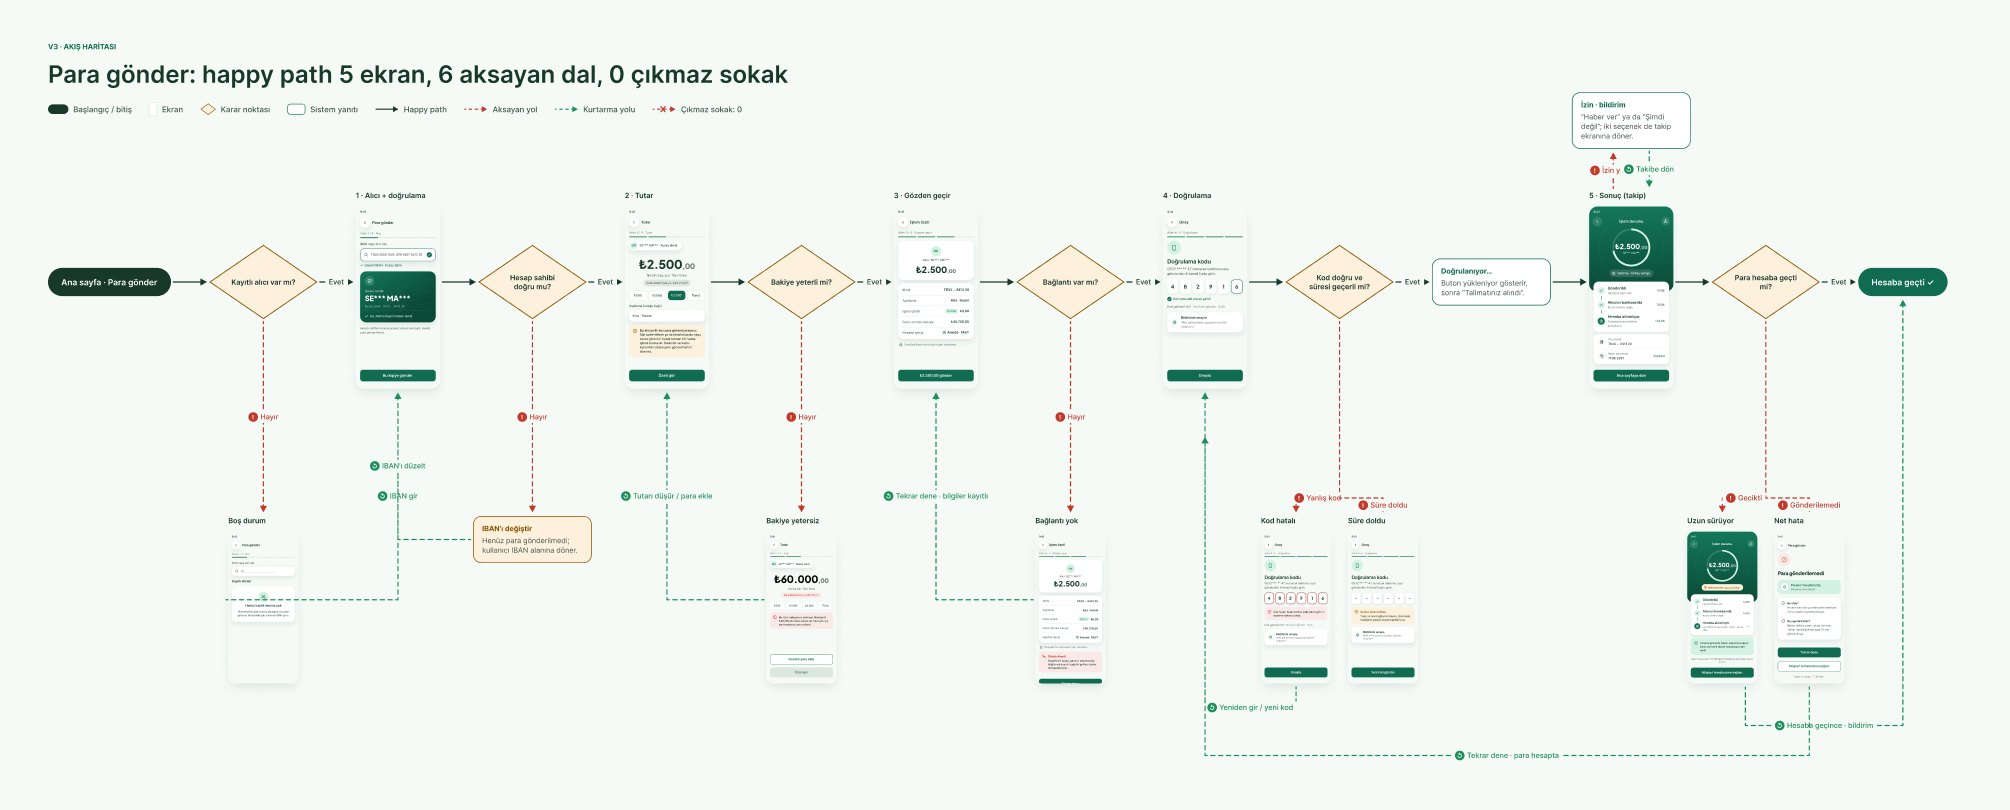
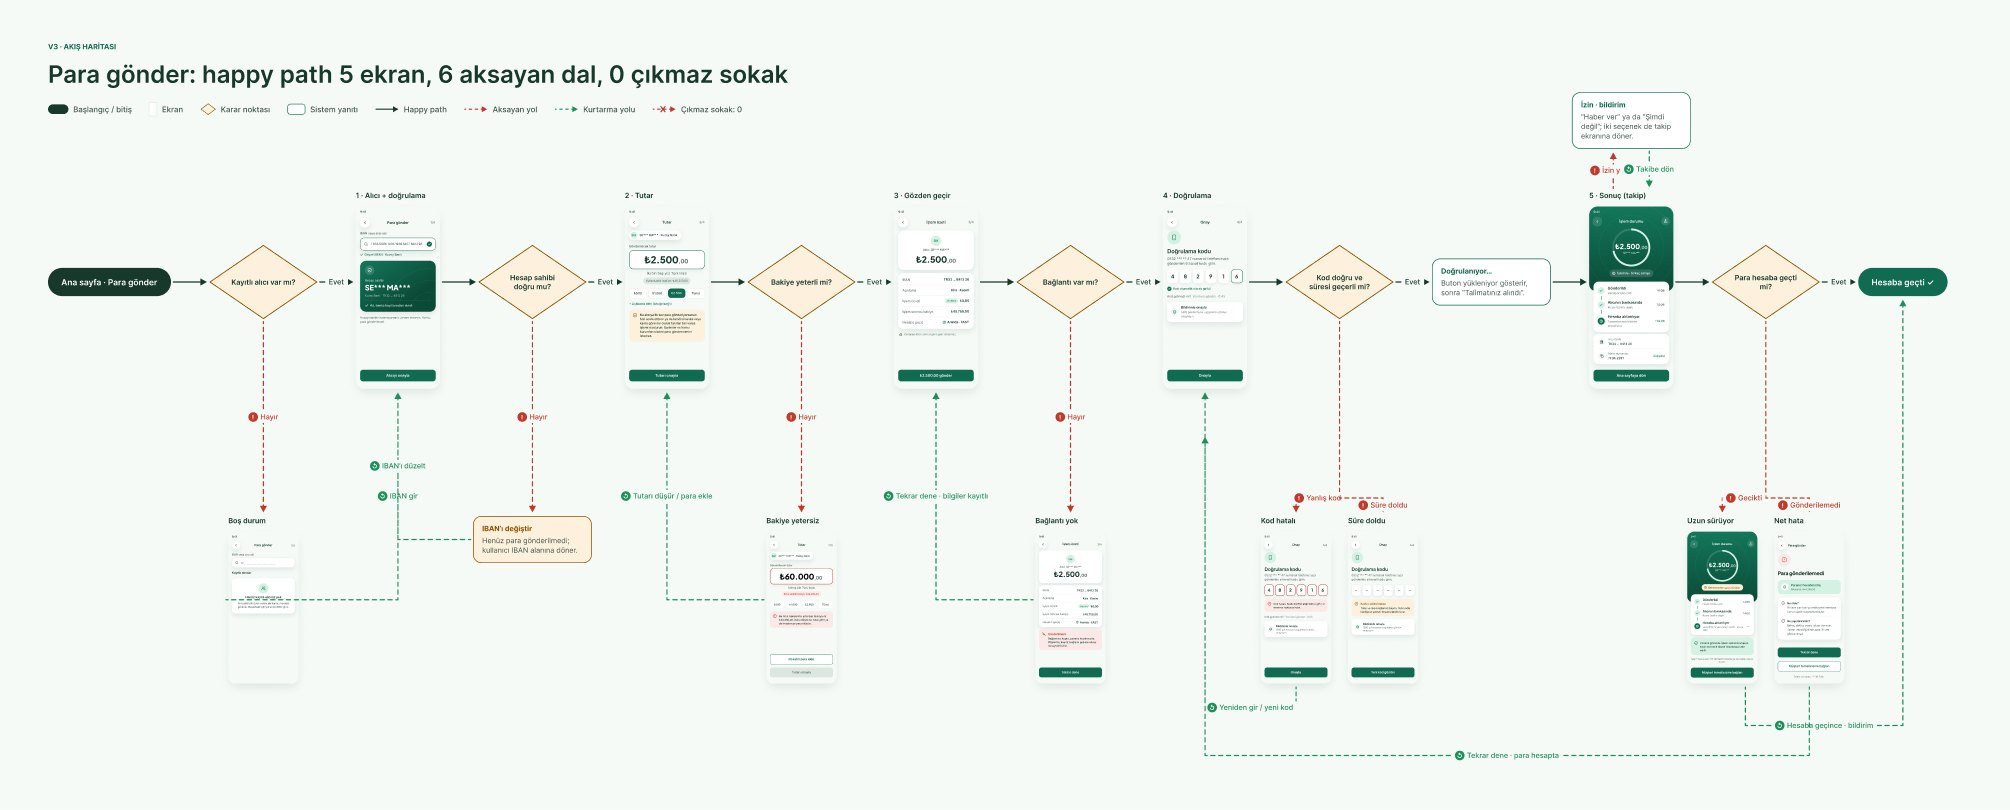
Odakbank v3: header step counter, clearer step buttons, explicit amount field
Claude-Session: https://claude.ai/code/session_01SkajtJQdqzcj5TnmeeF6aY

diff --git a/work/odakbank.html b/work/odakbank.html
@@ -79,14 +79,14 @@
 
 <section class="sec"><div class="wrap">
   <div class="sec-head rv"><h2>How it evolved</h2></div>
-  <div class="prows"><article class="rv"><div class="media"><img src="../assets/img/odakbank/wireframes.jpg" alt="Structure before style" loading="lazy"></div><div class="copy"><span class="pain">Step 1 · Wireframes</span><h3>Structure before style</h3><p>Seven greyscale screens, each linked to a step in the flow and the complaint theme it addresses, so every element had to justify its place.</p></div></article><article class="rv"><div class="media"><img src="../assets/img/odakbank/compare.jpg" alt="From correct to convincing" loading="lazy"></div><div class="copy"><span class="pain">Step 2 · v1 → v2</span><h3>From correct to convincing</h3><p>v1 had the right flow but looked generic: text characters as icons, a single card style and no brand moment. v2 introduces a consistent icon set, a display typeface for amounts and more depth, and makes the status tracker the hero screen.</p></div></article><article class="rv"><div class="media"><img src="../assets/img/odakbank/states-v3.jpg" alt="From screens to a flow" loading="lazy"></div><div class="copy"><span class="pain">Step 3 · v2 → v3</span><h3>From screens to a flow</h3><p>A course review of the flow showed that v2 only covered the ideal path. v3 adds a step indicator, a loading state after “Onayla” (Confirm) and the states around it: no saved recipients, insufficient balance, lost connection, wrong code and expired code.</p></div></article><article class="rv"><div class="media"><img src="../assets/img/odakbank/foundations.jpg" alt="Built on tokens, not one-offs" loading="lazy"></div><div class="copy"><span class="pain">Step 4 · Design system</span><h3>Built on tokens, not one-offs</h3><p>13 colour variables, 6 text styles and 5 component sets. Because the brand colour is green, success is never communicated by colour alone: every status pairs an icon with text.</p></div></article></div>
+  <div class="prows"><article class="rv"><div class="media"><img src="../assets/img/odakbank/wireframes.jpg" alt="Structure before style" loading="lazy"></div><div class="copy"><span class="pain">Step 1 · Wireframes</span><h3>Structure before style</h3><p>Seven greyscale screens, each linked to a step in the flow and the complaint theme it addresses, so every element had to justify its place.</p></div></article><article class="rv"><div class="media"><img src="../assets/img/odakbank/compare.jpg" alt="From correct to convincing" loading="lazy"></div><div class="copy"><span class="pain">Step 2 · v1 → v2</span><h3>From correct to convincing</h3><p>v1 had the right flow but looked generic: text characters as icons, a single card style and no brand moment. v2 introduces a consistent icon set, a display typeface for amounts and more depth, and makes the status tracker the hero screen.</p></div></article><article class="rv"><div class="media"><img src="../assets/img/odakbank/states-v3.jpg" alt="From screens to a flow" loading="lazy"></div><div class="copy"><span class="pain">Step 3 · v2 → v3</span><h3>From screens to a flow</h3><p>A course review of the flow showed that v2 only covered the ideal path. v3 adds a step counter, an explicit amount field, a loading state after “Onayla” (Confirm) and the states around it: no saved recipients, insufficient balance, lost connection, wrong code and expired code.</p></div></article><article class="rv"><div class="media"><img src="../assets/img/odakbank/foundations.jpg" alt="Built on tokens, not one-offs" loading="lazy"></div><div class="copy"><span class="pain">Step 4 · Design system</span><h3>Built on tokens, not one-offs</h3><p>13 colour variables, 6 text styles and 5 component sets. Because the brand colour is green, success is never communicated by colour alone: every status pairs an icon with text.</p></div></article></div>
 </div></section>
 
 
 <section class="sec" id="flow-audit"><div class="wrap">
   <div class="sec-head rv"><h2>Flow audit</h2><p>After a course session on flows (Brick Institute, “Ekrandan Akışa”), I reviewed v2 as a flow rather than as screens, using a 10-point checklist.</p></div>
   <div class="scorebar rv"><div><b class="tabular">3/10</b><span>v2, by my own review</span></div><span class="to" aria-hidden="true">→</span><div><b class="tabular">10/10</b><span>v3, on the same checklist</span></div><p>A self-assessment, not a usability result. The aim was to find what the screens hid: what happens before, after and when something goes wrong.</p></div>
-  <ol class="audit rv"><li><span class="grp">Navigation</span><div class="q">Does the user know where they are on every screen?</div><div class="was"><span class="x" aria-hidden="true">✕</span>No step indicator</div><div class="now"><span class="ok" aria-hidden="true">✓</span>“Adım 2 / 4” (Step 2 of 4) on every screen</div></li><li><span class="grp">Navigation</span><div class="q">Can they go back without losing what they entered?</div><div class="was"><span class="ok" aria-hidden="true">✓</span>Back on every screen, but an expired code had no defined path</div><div class="now"><span class="ok" aria-hidden="true">✓</span>Same, and “Kodun süresi doldu” (Code expired) now keeps the amount and recipient</div></li><li><span class="grp">Interaction</span><div class="q">Does every action get feedback?</div><div class="was"><span class="x" aria-hidden="true">✕</span>Nothing shown after “Onayla” (Confirm)</div><div class="now"><span class="ok" aria-hidden="true">✓</span>Loading button, then the status screen</div></li><li><span class="grp">Interaction</span><div class="q">Is there one clear primary action that says what happens?</div><div class="was"><span class="ok" aria-hidden="true">✓</span>One primary button per screen, but mostly “Devam et” (Continue)</div><div class="now"><span class="ok" aria-hidden="true">✓</span>Same, and the label says what happens: “₺2.500,00 gönder” (Send ₺2,500.00)</div></li><li><span class="grp">Interaction</span><div class="q">Are touch targets at least 44pt?</div><div class="was"><span class="x" aria-hidden="true">✕</span>Back buttons were 40pt</div><div class="now"><span class="ok" aria-hidden="true">✓</span>44pt</div></li><li><span class="grp">Resilience</span><div class="q">Do errors say what happened, why and what to do?</div><div class="was"><span class="ok" aria-hidden="true">✓</span>Yes, on the failed-transfer screen</div><div class="now"><span class="ok" aria-hidden="true">✓</span>Every new branch uses the same three-part message</div></li><li><span class="grp">Resilience</span><div class="q">Is there an empty state?</div><div class="was"><span class="x" aria-hidden="true">✕</span>No</div><div class="now"><span class="ok" aria-hidden="true">✓</span>“Henüz kayıtlı alıcınız yok” (No saved recipients yet)</div></li><li><span class="grp">Resilience</span><div class="q">Is there a branch for no connection, permission or timeout?</div><div class="was"><span class="x" aria-hidden="true">✕</span>Only a delayed transfer</div><div class="now"><span class="ok" aria-hidden="true">✓</span>Lost connection, expired code, notification permission</div></li><li><span class="grp">Resilience</span><div class="q">Does every branch lead back into the flow?</div><div class="was"><span class="x" aria-hidden="true">✕</span>Partly</div><div class="now"><span class="ok" aria-hidden="true">✓</span>Yes: no dead ends</div></li><li><span class="grp">Efficiency</span><div class="q">Is every step needed?</div><div class="was"><span class="x" aria-hidden="true">✕</span>6 steps; recipient check was its own screen</div><div class="now"><span class="ok" aria-hidden="true">✓</span>5 steps; the check is part of the recipient step</div></li></ol>
+  <ol class="audit rv"><li><span class="grp">Navigation</span><div class="q">Does the user know where they are on every screen?</div><div class="was"><span class="x" aria-hidden="true">✕</span>No step indicator</div><div class="now"><span class="ok" aria-hidden="true">✓</span>A compact “2/4” counter in the header of every step</div></li><li><span class="grp">Navigation</span><div class="q">Can they go back without losing what they entered?</div><div class="was"><span class="ok" aria-hidden="true">✓</span>Back on every screen, but an expired code had no defined path</div><div class="now"><span class="ok" aria-hidden="true">✓</span>Same, and “Kodun süresi doldu” (Code expired) now keeps the amount and recipient</div></li><li><span class="grp">Interaction</span><div class="q">Does every action get feedback?</div><div class="was"><span class="x" aria-hidden="true">✕</span>Nothing shown after “Onayla” (Confirm)</div><div class="now"><span class="ok" aria-hidden="true">✓</span>Loading button, then the status screen</div></li><li><span class="grp">Interaction</span><div class="q">Is there one clear primary action that says what happens?</div><div class="was"><span class="ok" aria-hidden="true">✓</span>One primary button per screen, but mostly “Devam et” (Continue)</div><div class="now"><span class="ok" aria-hidden="true">✓</span>Same, and each label names the action: “Alıcıyı onayla” (Confirm recipient), “Tutarı onayla” (Confirm amount), “₺2.500,00 gönder” (Send ₺2,500.00)</div></li><li><span class="grp">Interaction</span><div class="q">Are touch targets at least 44pt?</div><div class="was"><span class="x" aria-hidden="true">✕</span>Back buttons were 40pt</div><div class="now"><span class="ok" aria-hidden="true">✓</span>44pt</div></li><li><span class="grp">Resilience</span><div class="q">Do errors say what happened, why and what to do?</div><div class="was"><span class="ok" aria-hidden="true">✓</span>Yes, on the failed-transfer screen</div><div class="now"><span class="ok" aria-hidden="true">✓</span>Every new branch uses the same three-part message</div></li><li><span class="grp">Resilience</span><div class="q">Is there an empty state?</div><div class="was"><span class="x" aria-hidden="true">✕</span>No</div><div class="now"><span class="ok" aria-hidden="true">✓</span>“Henüz kayıtlı alıcınız yok” (No saved recipients yet)</div></li><li><span class="grp">Resilience</span><div class="q">Is there a branch for no connection, permission or timeout?</div><div class="was"><span class="x" aria-hidden="true">✕</span>Only a delayed transfer</div><div class="now"><span class="ok" aria-hidden="true">✓</span>Lost connection, expired code, notification permission</div></li><li><span class="grp">Resilience</span><div class="q">Does every branch lead back into the flow?</div><div class="was"><span class="x" aria-hidden="true">✕</span>Partly</div><div class="now"><span class="ok" aria-hidden="true">✓</span>Yes: no dead ends</div></li><li><span class="grp">Efficiency</span><div class="q">Is every step needed?</div><div class="was"><span class="x" aria-hidden="true">✕</span>6 steps; recipient check was its own screen</div><div class="now"><span class="ok" aria-hidden="true">✓</span>5 steps; the check is part of the recipient step</div></li></ol>
   <div class="sec-head rv" style="margin-top:clamp(48px,8vh,88px)"><h2 style="font-size:clamp(26px,3vw,38px)">Which branch first?</h2><p>Each branch placed by impact and likelihood. These are my estimates for prioritising, not measured rates.</p></div>
   <div class="risk rv"><div class="cell"><b>Fix first</b><small>High impact · likely</small><ul><li>Lost connection on confirm</li></ul></div><div class="cell"><b>Plan a recovery path</b><small>High impact · rare</small><ul><li>Expired verification code</li><li>Transfer delayed or failed</li></ul></div><div class="cell"><b>Make it easy</b><small>Low impact · likely</small><ul><li>Insufficient balance</li><li>Wrong verification code</li></ul></div><div class="cell"><b>Monitor for now</b><small>Low impact · rare</small><ul><li>Notification permission denied</li><li>No saved recipients</li></ul></div></div>
   <div class="sec-head rv" style="margin-top:clamp(48px,8vh,88px)"><h2 style="font-size:clamp(26px,3vw,38px)">The v3 flow</h2><p>Solid arrows are the happy path, red dashed arrows are things going wrong, green dashed arrows lead back into the flow.</p></div>
